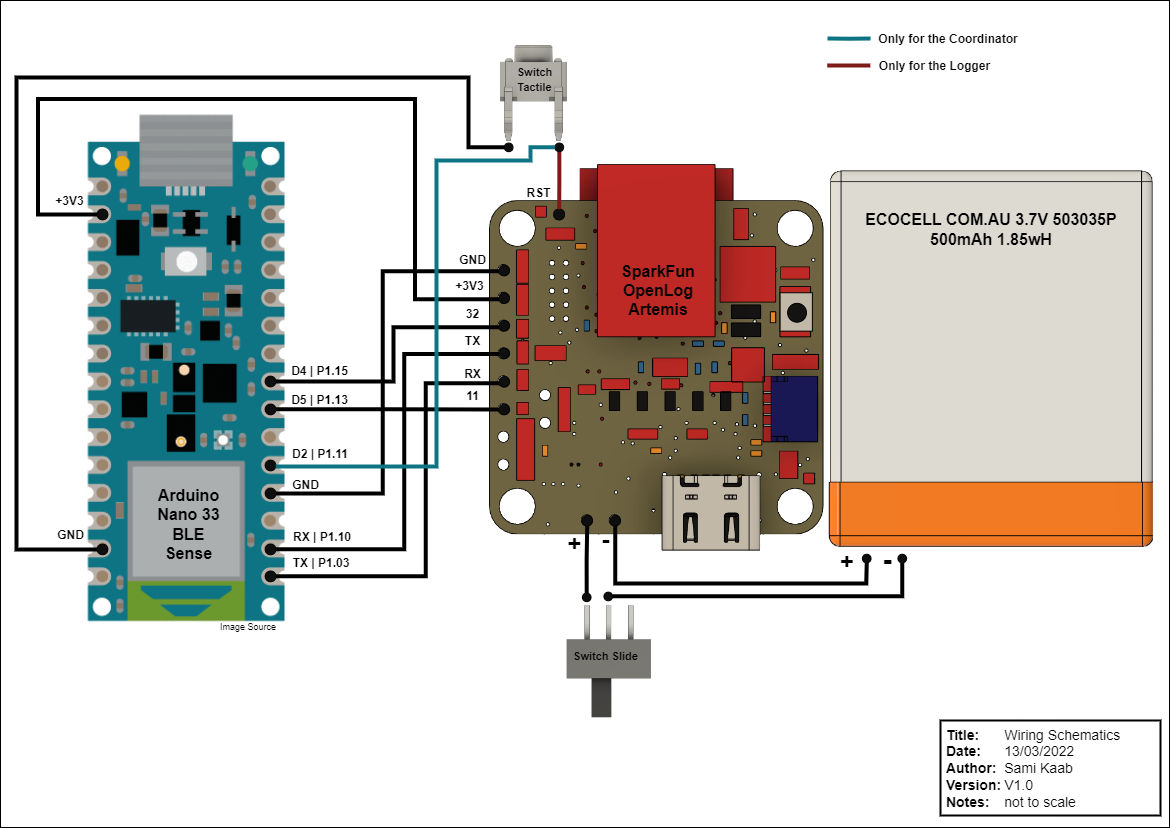
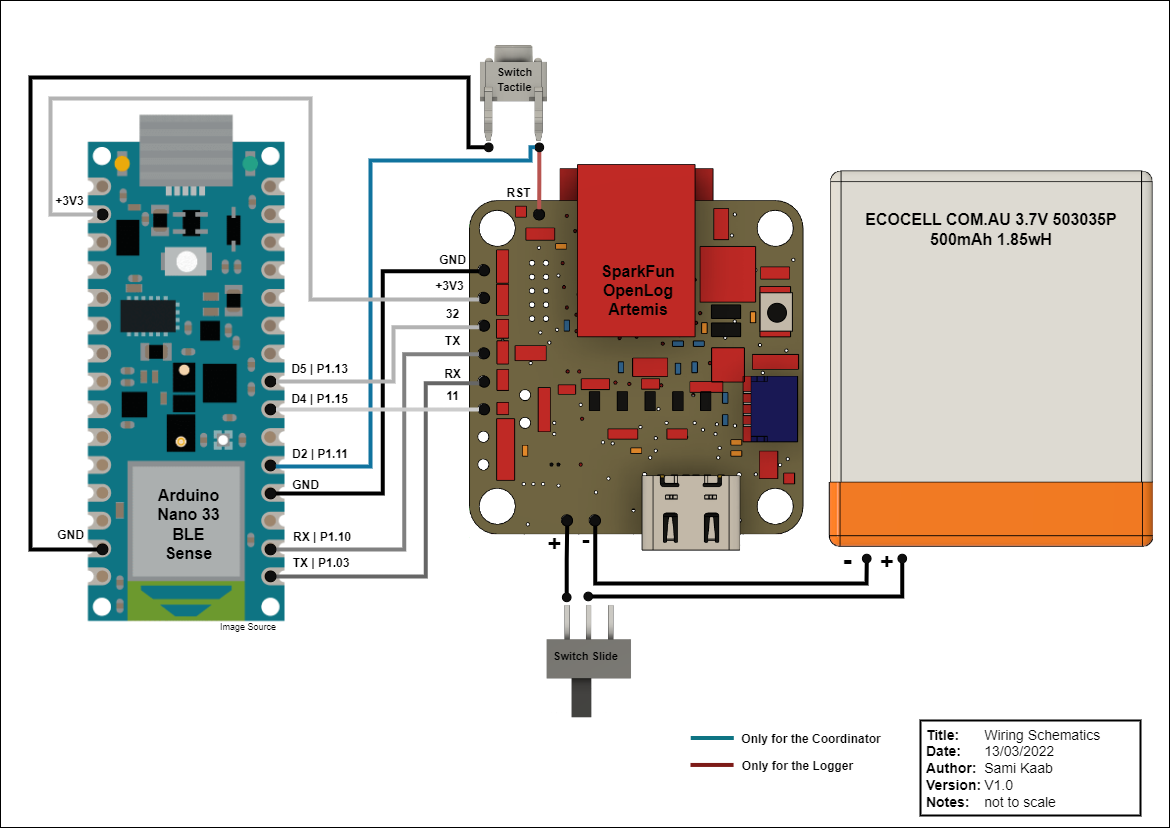
adds details to documentation

Changed region(s): [[0.0, 0.0, 1.0, 0.9964], [0.7077, 0.0302, 0.8615, 0.0906], [0.7385, 0.6643, 0.7692, 0.7246]]

diff --git a/README.md b/README.md
@@ -1,6 +1,13 @@
 <a name="readme-top"></a>
 
 # WMORE
+<p align="center">
+<img src="Documentation/WMORE_render.png" alt="OpenLog_JST_Desolder_Location" width="400"/>
+<img src="Documentation/assembly.gif" alt="OpenLog_JST_Desolder_Location" width="400"/>
+</p>
+
+
+
 This project aims at providing an opensource platform for synchronised inertial measurements.
 This platform consist of a list of required components, firmware to run the components and a software user interface. 
 
@@ -16,12 +23,13 @@ The project comprises two types of sensors: a logger and a coordinator. The coor
     - [Setting up the Arduino environment](#setting-up-the-arduino-environment)
     - [Uploading firmware onto the OLA](#uploading-firmware-onto-the-ola)
   - [Nano (OLA)](#nano-ola)
+    - [Building the project](#building-the-project)
     - [Uploading firmware to Nano](#uploading-firmware-to-nano)
 - [Software](#software)
 # Hardware
 ## Required components
 ---
-This project was designed using the following components. Only the Arduino Nano and Artemis Openlog are required to run the firmware, the battery and switches can be swapped for different models. However the CAD models for the case will need to be modified or redesigned accordingly if you choose to do so. The following list of materials is required for each WMORE. At least 2 WMOREs must be assembled:
+Thw WMOREs were designed using the list of components bellow. Only the Arduino Nano and Artemis Openlog are required to run the firmware, the battery and switches can be swapped for different models. However the CAD models for the case will need to be modified or redesigned accordingly if you choose to do so. At least 2 WMOREs must be assembled:
 
  * [Arduino Nano ble 33 (Sense)](https://store.arduino.cc/products/arduino-nano-33-ble-sense)
  * [SparkFun OpenLog Artemis](https://www.sparkfun.com/products/16832)
@@ -30,6 +38,7 @@ This project was designed using the following components. Only the Arduino Nano 
  * [LiPo Battery 500mAh 3.7V 503035](https://ecocell.com.au/product/lipo-500-503035/)
  * <span style="color:orange">x mm</span> of 30 AWG hook up wire
  * A [4.7kΩ 0402 surface mount resistor](https://www.digikey.com.au/en/products/detail/panasonic-electronic-components/ERA-2AEB472X/1706021)
+ * A MicroSDXC V30 U3 C10 A2
 
 
 
@@ -38,10 +47,9 @@ This project was designed using the following components. Only the Arduino Nano 
 ## Building the device
 ---
 Before wiring the components together, the Openlog Artemis must be modified in 2 ways:
-1. First the JST connector needs to be removed, in order for the Openlog to fit in the case. The battery will directly be wired to the pins underneath it. To do so the two surface mount pins of the JST conenctor shown on [Figure 2](/Documentation/OpenLog_JST_Desolder_Location.jpg) must be desoldered and the JST connector slid off its rails shown on [Figure 3](/Documentation/OpenLog_JST_Desoldered.jpg) (slide the conenctor towards the center off the board).
-  
+1. The JST connector needs to be removed, in order for the Openlog to fit in the case. The battery will directly be wired to the pins underneath it. To do so disconnect the two surface mount pins of the JST connector (see [Figure 2](/Documentation/OpenLog_JST_Desolder_Location.jpg)) by cutting them off of the PCB using flush cutters, then silde the JST connector off its rails by pushing it away from the border of the PCB. The OLA should now look like the picture in [Figure 3](/Documentation/OpenLog_JST_Desoldered.jpg).
 
-2. The Openlog Artemis has a charge current of approximately 450 mA. The 500 mAh Ecocell 503035P that is used in the WMOREs has a recommended charge current of 100 mA. If this battery is used then the Openlog Artemis charge current must be reduced to 100 mA for safe operation.  This can be achieved by replacing the R4 resistor (which location is shown in [Figure 4.](/Documentation/Openlog_Battery_Voltage_Regulator_Resistor.jpg)) on the Openlog Artemis with a 4.7kΩ 0402 surface mount resistor.
+2. The OLA has a charge current of approximately 450 mA. The 500 mAh Ecocell 503035P that is used in the WMOREs has a recommended charge current of 100 mA. If this battery is used then the Openlog Artemis charge current must be reduced to 100 mA for safe operation. To achieve this, desolder the R4 resistor (which location is shown in [Figure 4.](/Documentation/Openlog_Battery_Voltage_Regulator_Resistor.jpg)) and replace it with a 4.7kΩ 0402 surface mount resistor.
 
 | <img src="Documentation/OpenLog_JST_Desolder_Location.jpg" alt="OpenLog_JST_Desolder_Location" width="200"/> | <img src="Documentation/OpenLog_JST_Desoldered.jpg" alt="OpenLog_JST_Desolder_Location" width="200"/> | <img src="Documentation/Openlog_Battery_Voltage_Regulator_Resistor.jpg" alt="Openlog_Battery_Voltage_Regulator_Resistor" width="200"/> |
 |-|-|-|
@@ -49,11 +57,11 @@ Before wiring the components together, the Openlog Artemis must be modified in 2
 
 The male JST connector on the battery also needs to be cut off.
 
-Use the wiring diagram below solder the components together. 
+Use the wiring diagram below to solder the components together. 
 
 | <img src="Documentation/WMORE_wiring_diagram.png" alt="WMORE_wiring_diagram" width="500"/> |
 |-|
-| [Figure 1.](Documentation/Wiring_Diagram.pdf) WMORE Logger and Coordinator wiring Diagram |
+| [Figure 1.](Documentation/WMORE_wiring_diagram.png) WMORE Logger and Coordinator wiring Diagram |
 
 **NOTE**: Pay attention to the wiring difference between the Coordinator and Logger
 
@@ -68,9 +76,11 @@ The Coordinator and Logger OLA firmware applications are predominantly written i
 
 The Arduino project for the OLA can be found in the [OpenLog_Logger](Firmware/OpenLog_Logger) and [OpenLog_Coordinator](/Firmware/OpenLog_Coordinator/) folders under [Firmware](/Firmware/). 
 
+<p align="right">(<a href="#readme-top">back to top</a>)</p>
+
 ### Setting up the Arduino environment
 ---
-Before flashing the Openlogs the Arduino IDE must be set as follows:
+Before flashing the arduino program to the OpenLogs, the Arduino IDE must be set as follows:
 - Install Arduino IDE 1.8.12 or above from: https://www.arduino.cc/en/software#future-version-of-the-arduino-ide
 - Add Sparkfun URL to preferences by following the guide here: https://learn.sparkfun.com/tutorials/artemis-development-with-arduino#arduino-installation
 - Install Board Support for Sparkfun Apollo3 Artemis using Board Manager by following the guide here: https://learn.sparkfun.com/tutorials/artemis-development-with-arduino#arduino-installation
@@ -106,6 +116,8 @@ Before flashing the Openlogs the Arduino IDE must be set as follows:
       - SparkFun_Qwiic_Button
       - SparkFun_Bio_Logger_Hub_Library 
 
+<p align="right">(<a href="#readme-top">back to top</a>)</p>
+
 ### Uploading firmware onto the OLA
 ---
 Once the Arduino IDE has been set up, open the [WMORE_Coordinator.ino](Firmware/OpenLog_Coordinator/WMORE_Coordinator.ino) file or the [WMORE_Coordinator.ino](Firmware/OpenLog_Coordinator/WMORE_Coordinator.ino). Connect the OLA to your computer, select the correct com port and press the upload button. The project may take a while to compile
@@ -113,7 +125,7 @@ Once the Arduino IDE has been set up, open the [WMORE_Coordinator.ino](Firmware/
 
 ## Nano (OLA)
 ---
-The Coordinator and Logger Nano applications are written using **v2.1.0** of the **Nordic Semiconductor nRF Connect SDK** in the **Visual Studio Code** IDE and based on the **nRF Connect SDK Enhanced Shockburst (ESB)** sample applications. The nRF Connect SDK is based on the Zephyr RTOS, and Zephyr API calls are used in the WMORE applications. 
+The Coordinator and Logger Nano applications are written using **v2.1.0** of the **Nordic Semiconductor nRF Connect SDK** in the **Visual Studio Code** IDE and based on the nRF Connect SDK Enhanced Shockburst sample (**ESB ptx**) applications. The nRF Connect SDK is based on the Zephyr RTOS, and Zephyr API calls are used in the WMORE applications. 
 
 It is only necessary to install the nRF Connect SDK if you intend to modify this project. If that is the case, this link is a good starting point: [https://www.nordicsemi.com/Products/Development-software/nrf-connect-sdk]. The Documentation, Get Started, and nRF Connect Fundamentals links are particularly useful: 
 [https://developer.nordicsemi.com/nRF_Connect_SDK/doc/latest/nrf/introduction.html]
@@ -130,28 +142,46 @@ The nRF Connect SDK and the Zephyr RTOS involve a fairly complex structure of fi
 
 <p align="right">(<a href="#readme-top">back to top</a>)</p>
 
+### Building the project
+---
+1. Install nRF Connect SDK v2.1.0 by following [this tutorial](https://www.nordicsemi.com/Products/Development-software/nRF-Connect-SDK/GetStarted#infotabs)
+2. In the NRf connect SDK extension in VS code click on the Create a new Aplication button
+3. Select Workspace as application type
+4. Select Toolcahin Version 2.1.0 
+5. Select Sample `nrf/samples/esb/prx` for the Logger or `nrf/samples/esb/ptx` for the Coordinator
+6. Replace the `source/main.c` file with [Firmware/Nano_Coordinator/src/main.c](/Firmware/Nano_Coordinator/src/main.c) or [Firmware/Nano_Logger/src/main.c](/Firmware/Nano_Logger/src/main.c)
+7. replace the `prj.conf` file with [Firmware/Nano_Coordinator/prj.conf](/Firmware/Nano_Coordinator/prj.conf) or [Firmware/Nano_Logger/prj.conf](/Firmware/Nano_Logger/prj.conf)
+8. Add the [overlay](/Firmware/Nano_Coordinator/boards/arduino_nano_33_ble.overlay) file to the project
+9. Click on the `Add Build Configuration` button next the application you just created under the Applications tab in the to the  In the applications tab in the NRf Connect extension
+10. Select `All Boards` under Board and search for `arduino_nano_ble_sense`
+11. Click build configuration.
+12. 
+You should now be able to build the project. You can follow the steps in the next sessions to flash the Nano with the generated `.bin` file. The `.bin` have been rename `coordinator.bin` and `logger.bin` in the following section for more clarity however they can be found here: `<path_to_project>\<build_folder>\zephyr\zephyr.bin`.
+
+<p align="right">(<a href="#readme-top">back to top</a>)</p>
+
 ### Uploading firmware to Nano
 ---
 
 In order to flash the firmware to the Arduino nano, it is also necessary to install the bossac utility. An easy way to do this is to install the Arduino IDE, which should already have been done to support programming the OLA.
 
-The WMORE Nano firmware uses the **arduino_nano_33_ble** Build Configuration. Once applications have been successfully built they can be uploaded to the Nano using this process:
 
-- Conenct the Nano to the computer and press the white tactile twice (the orange LED should start flashing)
+- Connect the Nano to the computer and press the white tactile button twice (the orange LED should start flashing)
 
-- Identify the path to the `zephyr.bin` file which can be found at :
-  - For the Logger: [<path_to_project>/Firmware/Nano_Logger/arduino_nano_33_ble/zephyr/zephyr.bin](Firmware/Nano_Logger/arduino_nano_33_ble/zephyr/zephyr.bin)
-  - For the Coordinator: [<path_to_project>/Firmware/Nano_Coordinator/arduino_nano_33_ble/zephyr/zephyr.bin](Firmware/Nano_Coordinator/arduino_nano_33_ble/zephyr/zephyr.bin)
+- Identify the path to the `coordinator.bin` or `logger.bin` file which can be found at :
+  - For the Logger: [<path_to_project>/Firmware/Nano_Logger/logger.bin](Firmware/Nano_Logger/logger.bin)
+  - For the Coordinator: [<path_to_project>/Firmware/Nano_Coordinator/coordinator.bin)](Firmware/Nano_Coordinator/coordinator.bin)
+  - If you have built the project yourself: `<path_to_project>\<build_folder>\zephyr\zephyr.bin`
 
 - Open a terminal window (search cmd) in the folder where bossac.exe is located, which should be of the form: `C:\Users\<user_name>\AppData\Local\Arduino15\packages\arduino\tools\bossac\1.9.1-arduino2`
 
 - Enter the following command line for the Coordinator: 
   ```sh
-  .\bossac -d --port=<COMxx> -U -i -e -w <path_to_project>/Firmware/Nano_Coordinator/arduino_nano_33_ble/zephyr/zephyr.bin -R
+  .\bossac -d --port=<COMxx> -U -i -e -w <path_to_project>/Firmware/Nano_Coordinator/coordinator.bin -R
   ```
   and for the Logger:
   ```sh
-  .\bossac -d --port=<COMxx> -U -i -e -w <path_to_project>/Firmware/Nano_Logger/arduino_nano_33_ble/zephyr/zephyr.bin -R
+  .\bossac -d --port=<COMxx> -U -i -e -w <path_to_project>/Firmware/Nano_Logger/logger.bin -R
   ```
   
 **NOTE** : The appropriate .bin file **<path_to_project>** and **\<COMxx\>** should be substituted. The com port number can be found using the Device Manager. 
